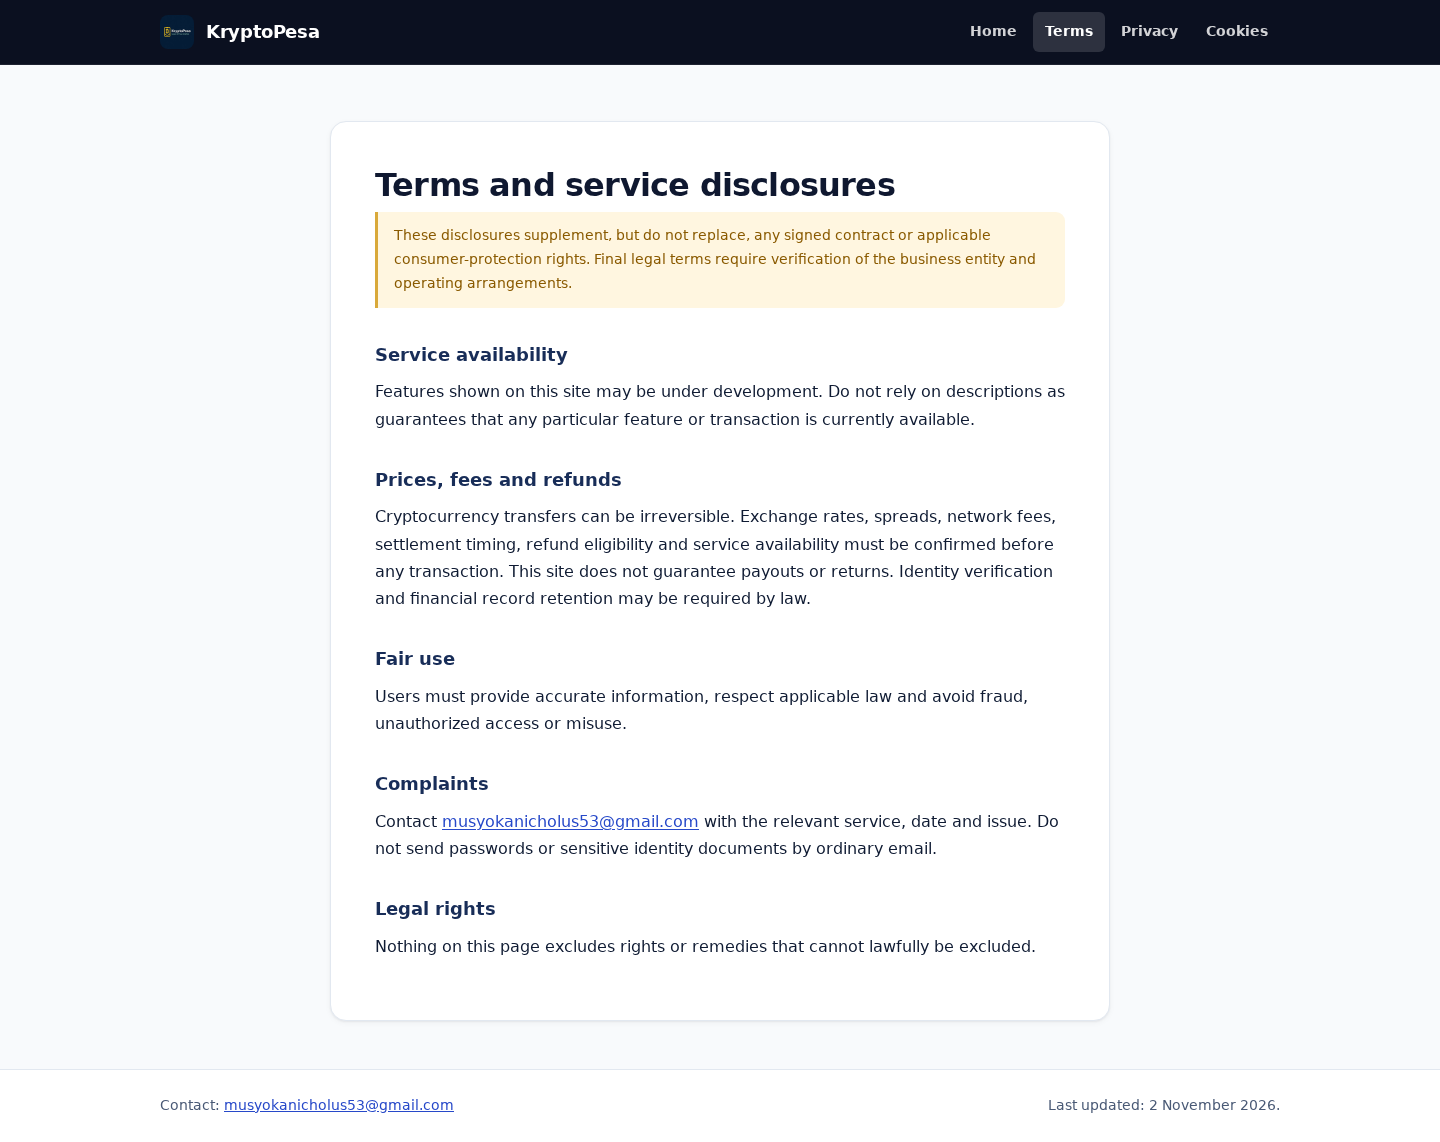
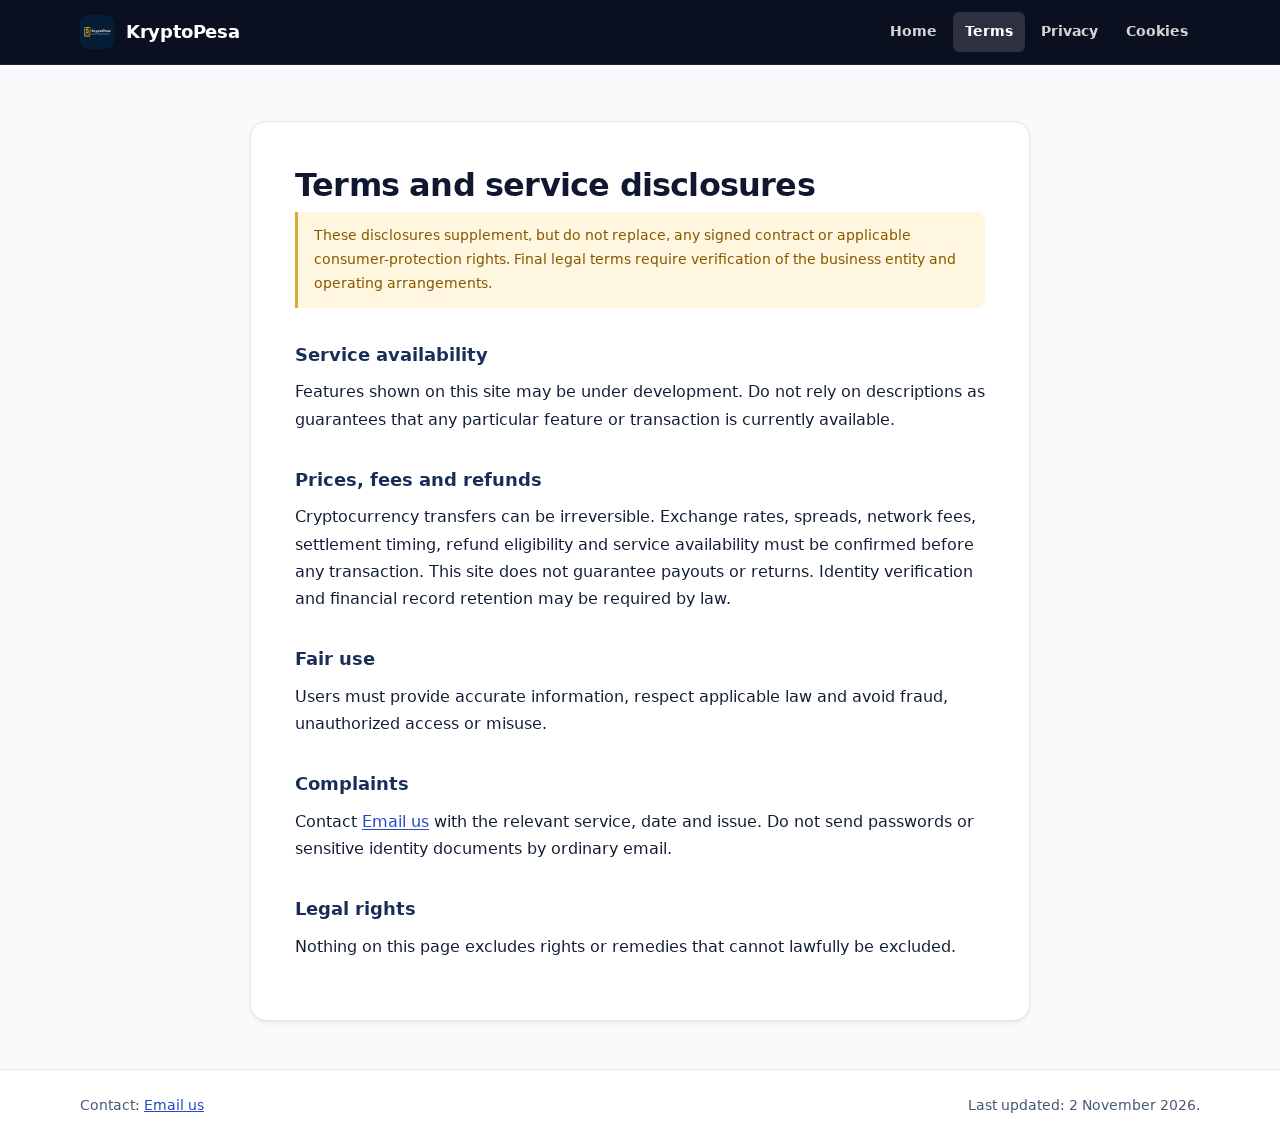
feat(legal): keep the email chooser without runtime-injected styles
Upstream replaced the visible contact address with an Email us dialog built from an injected style element, which the style-src CSP blocks and which would have overridden assets/legal.css. The chooser now builds only markup, its styles live in the token layer, and links carry the Email us label in the HTML so they still work without JavaScript.

Generated with Codebuff 🤖

diff --git a/index.js b/index.js
@@ -1,141 +1,97 @@
-/* Shared policy-page presentation and email-provider chooser. */
+/* Email-provider chooser for mailto: links.
+ *
+ * The dialog's styling lives in assets/kp-tokens.css rather than an injected
+ * <style> element, so this file works under the site's `style-src 'self'` CSP.
+ * If <dialog> is unsupported the link keeps its plain mailto behaviour.
+ */
 (() => {
   'use strict';
-  const style = document.createElement('style');
-  style.textContent = `
-    .kp-legal { box-sizing:border-box; max-width:none; margin:0; padding:0; background:#f4f6fb; color:#25314c; font:16px/1.8 'Segoe UI',system-ui,sans-serif; }
-    .kp-legal *, .kp-email-dialog * { box-sizing:border-box; }
-    .kp-legal a { color:#253591; text-underline-offset:4px; }
-    .kp-legal a:hover { text-decoration:underline; }
-    .kp-legal a:focus-visible,.kp-email-dialog a:focus-visible,.kp-email-dialog button:focus-visible { outline:3px solid #b77b00; outline-offset:4px; }
-    .kp-legal .kp-header { background:#1a237e; padding:20px max(24px,calc((100vw - 1120px)/2)); display:flex; align-items:center; justify-content:space-between; gap:24px; }
-    .kp-legal .kp-brand { display:flex; gap:12px; align-items:center; color:white; text-decoration:none; font-size:22px; font-weight:750; }
-    .kp-brand img { width:40px; height:40px; border-radius:10px; }
-    .kp-legal nav { display:flex; gap:8px; flex-wrap:wrap; }
-    .kp-legal .kp-header nav a { color:#fff; text-decoration:none; padding:8px 13px; border-radius:8px; font-size:14px; }
-    .kp-legal .kp-header nav a[aria-current=page] { background:#ffd600; color:#151c63; font-weight:700; }
-    .kp-legal .kp-header nav a:hover { box-shadow:inset 0 0 0 1px #bac3ff; }
-    .kp-legal .kp-hero { background:linear-gradient(120deg,#1a237e,#123f87); color:#fff; padding:50px max(24px,calc((100vw - 1120px)/2)) 60px; }
-    .kp-legal .kp-eyebrow { color:#ffe366; letter-spacing:2px; font-size:12px; font-weight:750; text-transform:uppercase; }
-    .kp-legal h1 { max-width:850px; margin:14px 0 18px; font-size:clamp(32px,5vw,50px); letter-spacing:-1.5px; line-height:1.15; }
-    .kp-legal .kp-hero p { margin:0; color:#dce4ff; font-size:14px; }
-    .kp-legal .kp-layout { display:grid; grid-template-columns:230px minmax(0,1fr); max-width:1168px; padding:38px 24px 56px; margin:auto; gap:32px; align-items:start; }
-    .kp-legal .kp-sidebar { position:sticky; top:24px; padding:22px 0; }
-    .kp-legal .kp-sidebar strong { font-size:12px; text-transform:uppercase; letter-spacing:1.5px; color:#65708b; }
-    .kp-legal .kp-sidebar nav { flex-direction:column; margin-top:16px; }
-    .kp-legal .kp-sidebar a { text-decoration:none; font-size:14px; padding:8px 12px; border-left:2px solid #dce1ef; }
-    .kp-legal .kp-sidebar a:hover { background:#e8ecf8; border-color:#1a237e; }
-    .kp-legal main { min-width:0; background:white; padding:40px 44px; border:1px solid #e0e5f0; border-radius:18px; box-shadow:0 8px 30px #18266006; }
-    .kp-legal main p { margin:0 0 22px; overflow-wrap:anywhere; }
-    .kp-legal main > p:first-child { font-size:17px; color:#4f5b75; border-bottom:1px solid #e4e8f1; padding-bottom:25px; }
-    .kp-legal h2 { font-size:21px; line-height:1.4; color:#1a237e; margin:30px 0 12px; scroll-margin-top:24px; }
-    .kp-legal main p:last-child { margin-bottom:0; }
-    .kp-legal footer { margin:0; padding:28px max(24px,calc((100vw - 1120px)/2)); border-top:1px solid #dfe4f0; background:white; font-size:14px; color:#59657c; }
-    .kp-email-dialog { color:#25314c; background:#fff; width:min(440px,calc(100% - 32px)); max-height:calc(100dvh - 40px); overflow:auto; border:1px solid #dfe4f0; border-radius:20px; padding:28px; margin:auto; box-shadow:0 24px 100px #111b5440; font:16px/1.6 'Segoe UI',system-ui,sans-serif; text-align:left; }
-    .kp-email-dialog::backdrop { background:#0c133a99; }
-    .kp-email-dialog h2 { color:#1a237e; font-size:24px; margin:0 0 8px; line-height:1.3; }
-    .kp-email-dialog p { color:#5b667e; font-size:14px; margin:0 0 20px; }
-    .kp-email-providers { display:grid; gap:10px; }
-    .kp-email-providers a { display:block; border:1px solid #dce2ef; border-radius:10px; padding:12px 16px; color:#1a237e; background:#f8f9fd; text-decoration:none; font-weight:650; }
-    .kp-email-providers a:hover { border-color:#1a237e; background:#eef1ff; }
-    .kp-email-dialog button { display:block; width:100%; margin-top:20px; padding:10px; border:0; border-radius:8px; background:#1a237e; color:white; font:600 14px/1.5 'Segoe UI',system-ui,sans-serif; cursor:pointer; }
-    @media(max-width:760px) { .kp-legal .kp-header { align-items:flex-start; flex-direction:column; gap:14px; padding:18px 20px; } .kp-legal .kp-header nav { gap:2px; } .kp-legal .kp-header nav a { padding:7px 10px; } .kp-legal .kp-hero { padding:32px 20px 38px; } .kp-legal .kp-layout { grid-template-columns:1fr; gap:18px; padding:22px 16px 36px; } .kp-legal .kp-sidebar { position:static; padding:0 6px; } .kp-legal .kp-sidebar nav { flex-direction:row; gap:4px 12px; margin-top:8px; } .kp-legal .kp-sidebar a { padding:4px 8px; font-size:13px; } .kp-legal main { padding:24px; border-radius:14px; } }
-    @media print { .kp-legal .kp-header,.kp-legal .kp-sidebar,.kp-email-dialog { display:none; } .kp-legal .kp-hero { background:white; color:#111; padding:0; } .kp-legal .kp-hero p,.kp-legal .kp-eyebrow { color:#444; } .kp-legal .kp-layout { display:block; padding:20px 0; } .kp-legal main { padding:0; border:0; box-shadow:none; } }
-  `;
-  document.head.append(style);
 
-  const policy = /^(terms|privacy|cookies)\.html$/.test(location.pathname.split('/').pop());
-  if (policy) {
-    document.body.classList.add('kp-legal');
-    const nav = document.querySelector('body > nav');
-    const main = document.querySelector('main');
-    const heading = main.querySelector('h1');
-    const footer = document.querySelector('footer');
-    const header = document.createElement('header');
-    header.className = 'kp-header';
-    const brand = document.createElement('a');
-    brand.className = 'kp-brand';
-    brand.href = 'index.html';
-    brand.innerHTML = '<img src="logo.jpg" alt="" width="40" height="40">KryptoPesa';
-    nav.setAttribute('aria-label', 'Policy navigation');
-    Array.from(nav.childNodes).filter(node => node.nodeType === 3).forEach(node => node.remove());
-    nav.querySelectorAll('a').forEach(link => {
-      if (new URL(link.href).pathname === location.pathname) link.setAttribute('aria-current', 'page');
-    });
-    header.append(brand, nav);
-    const hero = document.createElement('section');
-    hero.className = 'kp-hero';
-    const eyebrow = document.createElement('span');
-    eyebrow.className = 'kp-eyebrow';
-    eyebrow.textContent = 'KryptoPesa / Legal';
-    const updated = document.createElement('p');
-    updated.textContent = footer.textContent.match(/Last updated:.*$/)?.[0] || '';
-    hero.append(eyebrow, heading, updated);
-    const layout = document.createElement('div');
-    layout.className = 'kp-layout';
-    const sidebar = document.createElement('aside');
-    sidebar.className = 'kp-sidebar';
-    sidebar.innerHTML = '<strong>On this page</strong><nav aria-label="On this page"></nav>';
-    const headings = main.querySelectorAll('h2');
-    const targets = headings.length ? [...headings] : [...main.querySelectorAll('p')];
-    targets.forEach((target, index) => {
-      target.id = `policy-section-${index + 1}`;
-      const link = document.createElement('a');
-      link.href = `#${target.id}`;
-      link.textContent = headings.length ? target.textContent : ['Essential storage', 'Tracking and consent', 'Your choices'][index] || 'Information';
-      sidebar.querySelector('nav').append(link);
-    });
-    document.body.prepend(header, hero);
-    main.before(layout);
-    layout.append(sidebar, main);
-  }
+  const links = Array.from(document.querySelectorAll('a[href^="mailto:"]'));
+  if (!links.length) return;
 
   const dialog = document.createElement('dialog');
   dialog.className = 'kp-email-dialog';
   dialog.id = 'kp-email-dialog';
-  dialog.setAttribute('aria-labelledby', 'kp-email-title');
-  dialog.setAttribute('aria-describedby', 'kp-email-description');
-  dialog.innerHTML = '<h2 id="kp-email-title">Email us</h2><p id="kp-email-description">Choose your email provider. A draft opens with our address filled in. You may need to sign in.</p><div class="kp-email-providers"></div><button type="button" autofocus>Cancel</button>';
+  dialog.setAttribute('aria-labelledby', 'kp-email-dialog-title');
+  dialog.setAttribute('aria-describedby', 'kp-email-dialog-desc');
+
+  const title = document.createElement('h2');
+  title.id = 'kp-email-dialog-title';
+  title.textContent = 'Email us';
+
+  const description = document.createElement('p');
+  description.id = 'kp-email-dialog-desc';
+  description.textContent =
+    'Choose your email provider. A draft opens with our address filled in. You may need to sign in.';
+
+  const providers = document.createElement('div');
+  providers.className = 'kp-email-providers';
+
+  const cancel = document.createElement('button');
+  cancel.type = 'button';
+  cancel.className = 'kp-email-dialog__cancel';
+  cancel.textContent = 'Cancel';
+
+  dialog.append(title, description, providers, cancel);
   document.body.append(dialog);
-  let opener;
-  dialog.querySelector('button').addEventListener('click', () => dialog.close());
-  dialog.addEventListener('close', () => opener?.focus());
-  dialog.addEventListener('click', event => {
-    const bounds = dialog.getBoundingClientRect();
-    if (event.target === dialog && (event.clientX < bounds.left || event.clientX > bounds.right || event.clientY < bounds.top || event.clientY > bounds.bottom)) dialog.close();
+
+  let opener = null;
+
+  cancel.addEventListener('click', () => dialog.close());
+  dialog.addEventListener('close', () => {
+    opener?.focus();
+    opener = null;
   });
-  document.querySelectorAll('a[href^="mailto:"]').forEach(link => {
+  dialog.addEventListener('click', event => {
+    const box = dialog.getBoundingClientRect();
+    const outside =
+      event.clientX < box.left || event.clientX > box.right ||
+      event.clientY < box.top || event.clientY > box.bottom;
+    if (event.target === dialog && outside) dialog.close();
+  });
+
+  const buildProviders = href => {
+    const mail = new URL(href);
+    const recipient = decodeURIComponent(mail.pathname);
+    const subject = mail.searchParams.get('subject') || 'KryptoPesa inquiry';
+    const body = mail.searchParams.get('body') || '';
+    const query = (keys, values) => new URLSearchParams(
+      Object.fromEntries(keys.map((key, index) => [key, values[index]]))
+    ).toString();
+
+    return [
+      ['Gmail', 'https://mail.google.com/mail/?' + query(['view', 'fs', 'to', 'su', 'body'], ['cm', '1', recipient, subject, body])],
+      ['Outlook', 'https://outlook.live.com/mail/0/deeplink/compose?' + query(['to', 'subject', 'body'], [recipient, subject, body])],
+      ['Yahoo Mail', 'https://compose.mail.yahoo.com/?' + query(['to', 'subject', 'body'], [recipient, subject, body])],
+      ['Default email app', href]
+    ];
+  };
+
+  links.forEach(link => {
     link.textContent = 'Email us';
+    if (typeof dialog.showModal !== 'function') return;
+
     link.setAttribute('aria-haspopup', 'dialog');
     link.setAttribute('aria-controls', dialog.id);
     link.addEventListener('click', event => {
-      if (typeof dialog.showModal !== 'function') return;
       event.preventDefault();
       opener = link;
-      const mail = new URL(link.href);
-      const recipient = decodeURIComponent(mail.pathname);
-      const subject = mail.searchParams.get('subject') || 'KryptoPesa inquiry';
-      const body = mail.searchParams.get('body') || '';
-      const providers = [
-        ['Gmail', 'https://mail.google.com/mail/?' + new URLSearchParams({view:'cm',fs:'1',to:recipient,su:subject,body})],
-        ['Outlook', 'https://outlook.live.com/mail/0/deeplink/compose?' + new URLSearchParams({to:recipient,subject,body})],
-        ['Yahoo Mail', 'https://compose.mail.yahoo.com/?' + new URLSearchParams({to:recipient,subject,body})],
-        ['Default email app', link.href]
-      ];
-      const list = dialog.querySelector('.kp-email-providers');
-      list.replaceChildren();
-      providers.forEach(([name, href]) => {
+      providers.replaceChildren();
+
+      buildProviders(link.href).forEach(([name, href]) => {
         const provider = document.createElement('a');
         provider.textContent = name;
         provider.href = href;
         if (href.startsWith('https:')) {
           provider.target = '_blank';
           provider.rel = 'noopener noreferrer';
-          provider.setAttribute('aria-label', `${name} (opens in a new tab)`);
+          provider.setAttribute('aria-label', name + ' (opens in a new tab)');
         }
         provider.addEventListener('click', () => dialog.close());
-        list.append(provider);
+        providers.append(provider);
       });
+
       dialog.showModal();
     });
   });

diff --git a/assets/kp-tokens.css b/assets/kp-tokens.css
@@ -339,6 +339,73 @@
 }
 
 /* ============================================================================
+   Email-provider chooser — native <dialog>, created by index.js.
+   Keeping the styling here (rather than an injected <style>) is what lets the
+   dialog work under a `style-src 'self'` CSP.
+   ========================================================================== */
+.kp-email-dialog {
+  width: min(440px, calc(100% - 32px));
+  max-height: calc(100dvh - 40px);
+  overflow: auto;
+  margin: auto;
+  padding: var(--kp-space-5, 24px);
+  border: 1px solid var(--kp-line);
+  border-radius: var(--kp-radius-lg, 16px);
+  background: var(--kp-surface);
+  color: var(--kp-ink);
+  box-shadow: var(--kp-shadow-lg, 0 24px 64px rgba(11, 16, 32, 0.25));
+  text-align: left;
+}
+.kp-email-dialog::backdrop {
+  background: rgba(11, 16, 32, 0.6);
+}
+.kp-email-dialog h2 {
+  margin: 0 0 var(--kp-space-2, 8px);
+  font-size: 1.4rem;
+  line-height: 1.25;
+  color: var(--kp-navy-800);
+}
+.kp-email-dialog p {
+  margin: 0 0 var(--kp-space-4, 20px);
+  font-size: 0.9rem;
+  line-height: 1.55;
+  color: var(--kp-ink-soft);
+}
+.kp-email-providers {
+  display: grid;
+  gap: var(--kp-space-2, 8px);
+}
+.kp-email-providers a {
+  display: block;
+  padding: 12px 16px;
+  border: 1px solid var(--kp-line);
+  border-radius: var(--kp-radius-md, 10px);
+  background: var(--kp-bg);
+  color: var(--kp-navy-800);
+  font-weight: 650;
+  text-decoration: none;
+}
+.kp-email-providers a:hover {
+  border-color: var(--kp-blue);
+  background: var(--kp-blue-050);
+}
+.kp-email-dialog__cancel {
+  width: 100%;
+  margin-top: var(--kp-space-4, 20px);
+  padding: 10px 16px;
+  border: 1px solid var(--kp-line-strong);
+  border-radius: var(--kp-radius-md, 10px);
+  background: var(--kp-surface);
+  color: var(--kp-ink);
+  font: inherit;
+  font-weight: 600;
+  cursor: pointer;
+}
+.kp-email-dialog__cancel:hover {
+  background: var(--kp-bg-alt);
+}
+
+/* ============================================================================
    Motion preferences
    ========================================================================== */
 @media (prefers-reduced-motion: reduce) {

diff --git a/privacy.html b/privacy.html
@@ -43,7 +43,7 @@
         <p>Information is used to respond to requests, provide requested services, secure accounts, investigate misuse and meet applicable legal obligations. Subject to Kenyan law and any other applicable law, individuals may request access, correction, objection or deletion. Some records may need to be retained for legal compliance, disputes or fraud prevention.</p>
 
         <h2>Requests</h2>
-        <p>To request access, correction, marketing opt-out or deletion, email <a href="mailto:musyokanicholus53@gmail.com?subject=Privacy%20request">musyokanicholus53@gmail.com</a>. State the request type without emailing identity documents. We may need to verify account ownership securely before acting.</p>
+        <p>To request access, correction, marketing opt-out or deletion, email <a href="mailto:musyokanicholus53@gmail.com?subject=Privacy%20request">Email us</a>. State the request type without emailing identity documents. We may need to verify account ownership securely before acting.</p>
 
         <h2>Cookies</h2>
         <p>See <a href="cookies.html">cookie information</a>. Browser storage and third-party services require a separate technical inventory.</p>
@@ -56,9 +56,10 @@
 
   <footer class="legal-footer">
     <div class="kp-container legal-footer__inner">
-      <p>Contact: <a href="mailto:musyokanicholus53@gmail.com">musyokanicholus53@gmail.com</a></p>
+      <p>Contact: <a href="mailto:musyokanicholus53@gmail.com">Email us</a></p>
       <p>Last updated: 2 November 2026.</p>
     </div>
   </footer>
+  <script src="index.js" defer></script>
 </body>
 </html>

diff --git a/cookies.html b/cookies.html
@@ -37,16 +37,17 @@
 
         <p>Essential browser storage may be required for login, security and core functions. External scripts and embedded services can also set cookies or collect device information.</p>
         <p>Non-essential analytics and marketing tracking should not run before valid consent where required. This page does not assert that every third-party script is already consent-gated; the production integration must be audited.</p>
-        <p>Use your browser controls to inspect or clear stored cookies. Contact <a href="mailto:musyokanicholus53@gmail.com?subject=Cookie%20question">musyokanicholus53@gmail.com</a> about tracking or consent withdrawal.</p>
+        <p>Use your browser controls to inspect or clear stored cookies. Contact <a href="mailto:musyokanicholus53@gmail.com?subject=Cookie%20question">Email us</a> about tracking or consent withdrawal.</p>
       </article>
     </div>
   </main>
 
   <footer class="legal-footer">
     <div class="kp-container legal-footer__inner">
-      <p>Contact: <a href="mailto:musyokanicholus53@gmail.com">musyokanicholus53@gmail.com</a></p>
+      <p>Contact: <a href="mailto:musyokanicholus53@gmail.com">Email us</a></p>
       <p>Last updated: 2 November 2026.</p>
     </div>
   </footer>
+  <script src="index.js" defer></script>
 </body>
 </html>

diff --git a/terms.html b/terms.html
@@ -46,7 +46,7 @@
         <p>Users must provide accurate information, respect applicable law and avoid fraud, unauthorized access or misuse.</p>
 
         <h2>Complaints</h2>
-        <p>Contact <a href="mailto:musyokanicholus53@gmail.com?subject=Service%20complaint">musyokanicholus53@gmail.com</a> with the relevant service, date and issue. Do not send passwords or sensitive identity documents by ordinary email.</p>
+        <p>Contact <a href="mailto:musyokanicholus53@gmail.com?subject=Service%20complaint">Email us</a> with the relevant service, date and issue. Do not send passwords or sensitive identity documents by ordinary email.</p>
 
         <h2>Legal rights</h2>
         <p>Nothing on this page excludes rights or remedies that cannot lawfully be excluded.</p>
@@ -56,9 +56,10 @@
 
   <footer class="legal-footer">
     <div class="kp-container legal-footer__inner">
-      <p>Contact: <a href="mailto:musyokanicholus53@gmail.com">musyokanicholus53@gmail.com</a></p>
+      <p>Contact: <a href="mailto:musyokanicholus53@gmail.com">Email us</a></p>
       <p>Last updated: 2 November 2026.</p>
     </div>
   </footer>
+  <script src="index.js" defer></script>
 </body>
 </html>

diff --git a/index.html b/index.html
@@ -254,7 +254,7 @@
         <nav aria-labelledby="footerContact">
           <h2 id="footerContact">Contact</h2>
           <ul class="footer-links">
-            <li><a href="mailto:support@kryptopesa.com">support@kryptopesa.com</a></li>
+            <li><a href="mailto:support@kryptopesa.com">Email us</a></li>
             <li><a href="mailto:musyokanicholus53@gmail.com?subject=Privacy%20request">Privacy requests</a></li>
           </ul>
         </nav>

diff --git a/docs/MODERNIZATION-REPORT.md b/docs/MODERNIZATION-REPORT.md
@@ -306,6 +306,24 @@ evidence, `.gitignore`).
 
 Before/after screenshots: `docs/audit/`.
 
+### 10.1 Upstream merge
+
+`main` moved while this branch was in progress: five commits added `index.js`, which
+re-styled the three policy pages at runtime by injecting a `<style>` element and
+wrapped every `mailto:` link in an email-provider chooser. Those commits were merged
+and the conflicting page bodies resolved in favour of the rebuilt markup, because the
+injected styles (a navy/yellow theme) would have replaced `assets/legal.css` and are
+blocked outright by the `style-src 'self'` CSP on those pages.
+
+The chooser itself was kept and reimplemented: `index.js` now only builds the dialog,
+its styling lives in `assets/kp-tokens.css`, contact links read *Email us* in the HTML
+(rather than being relabelled by script), and `<dialog>`-less browsers still get a
+working `mailto:` link. Verified on `terms.html` and `index.html`: dialog opens with
+four providers, the draft carries the right recipient and subject, Escape closes and
+returns focus to the link, and no CSP violation is logged.
+
+![Email provider chooser](audit/new-email-chooser.png)
+
 ---
 
 ## 11. Deployment readiness
